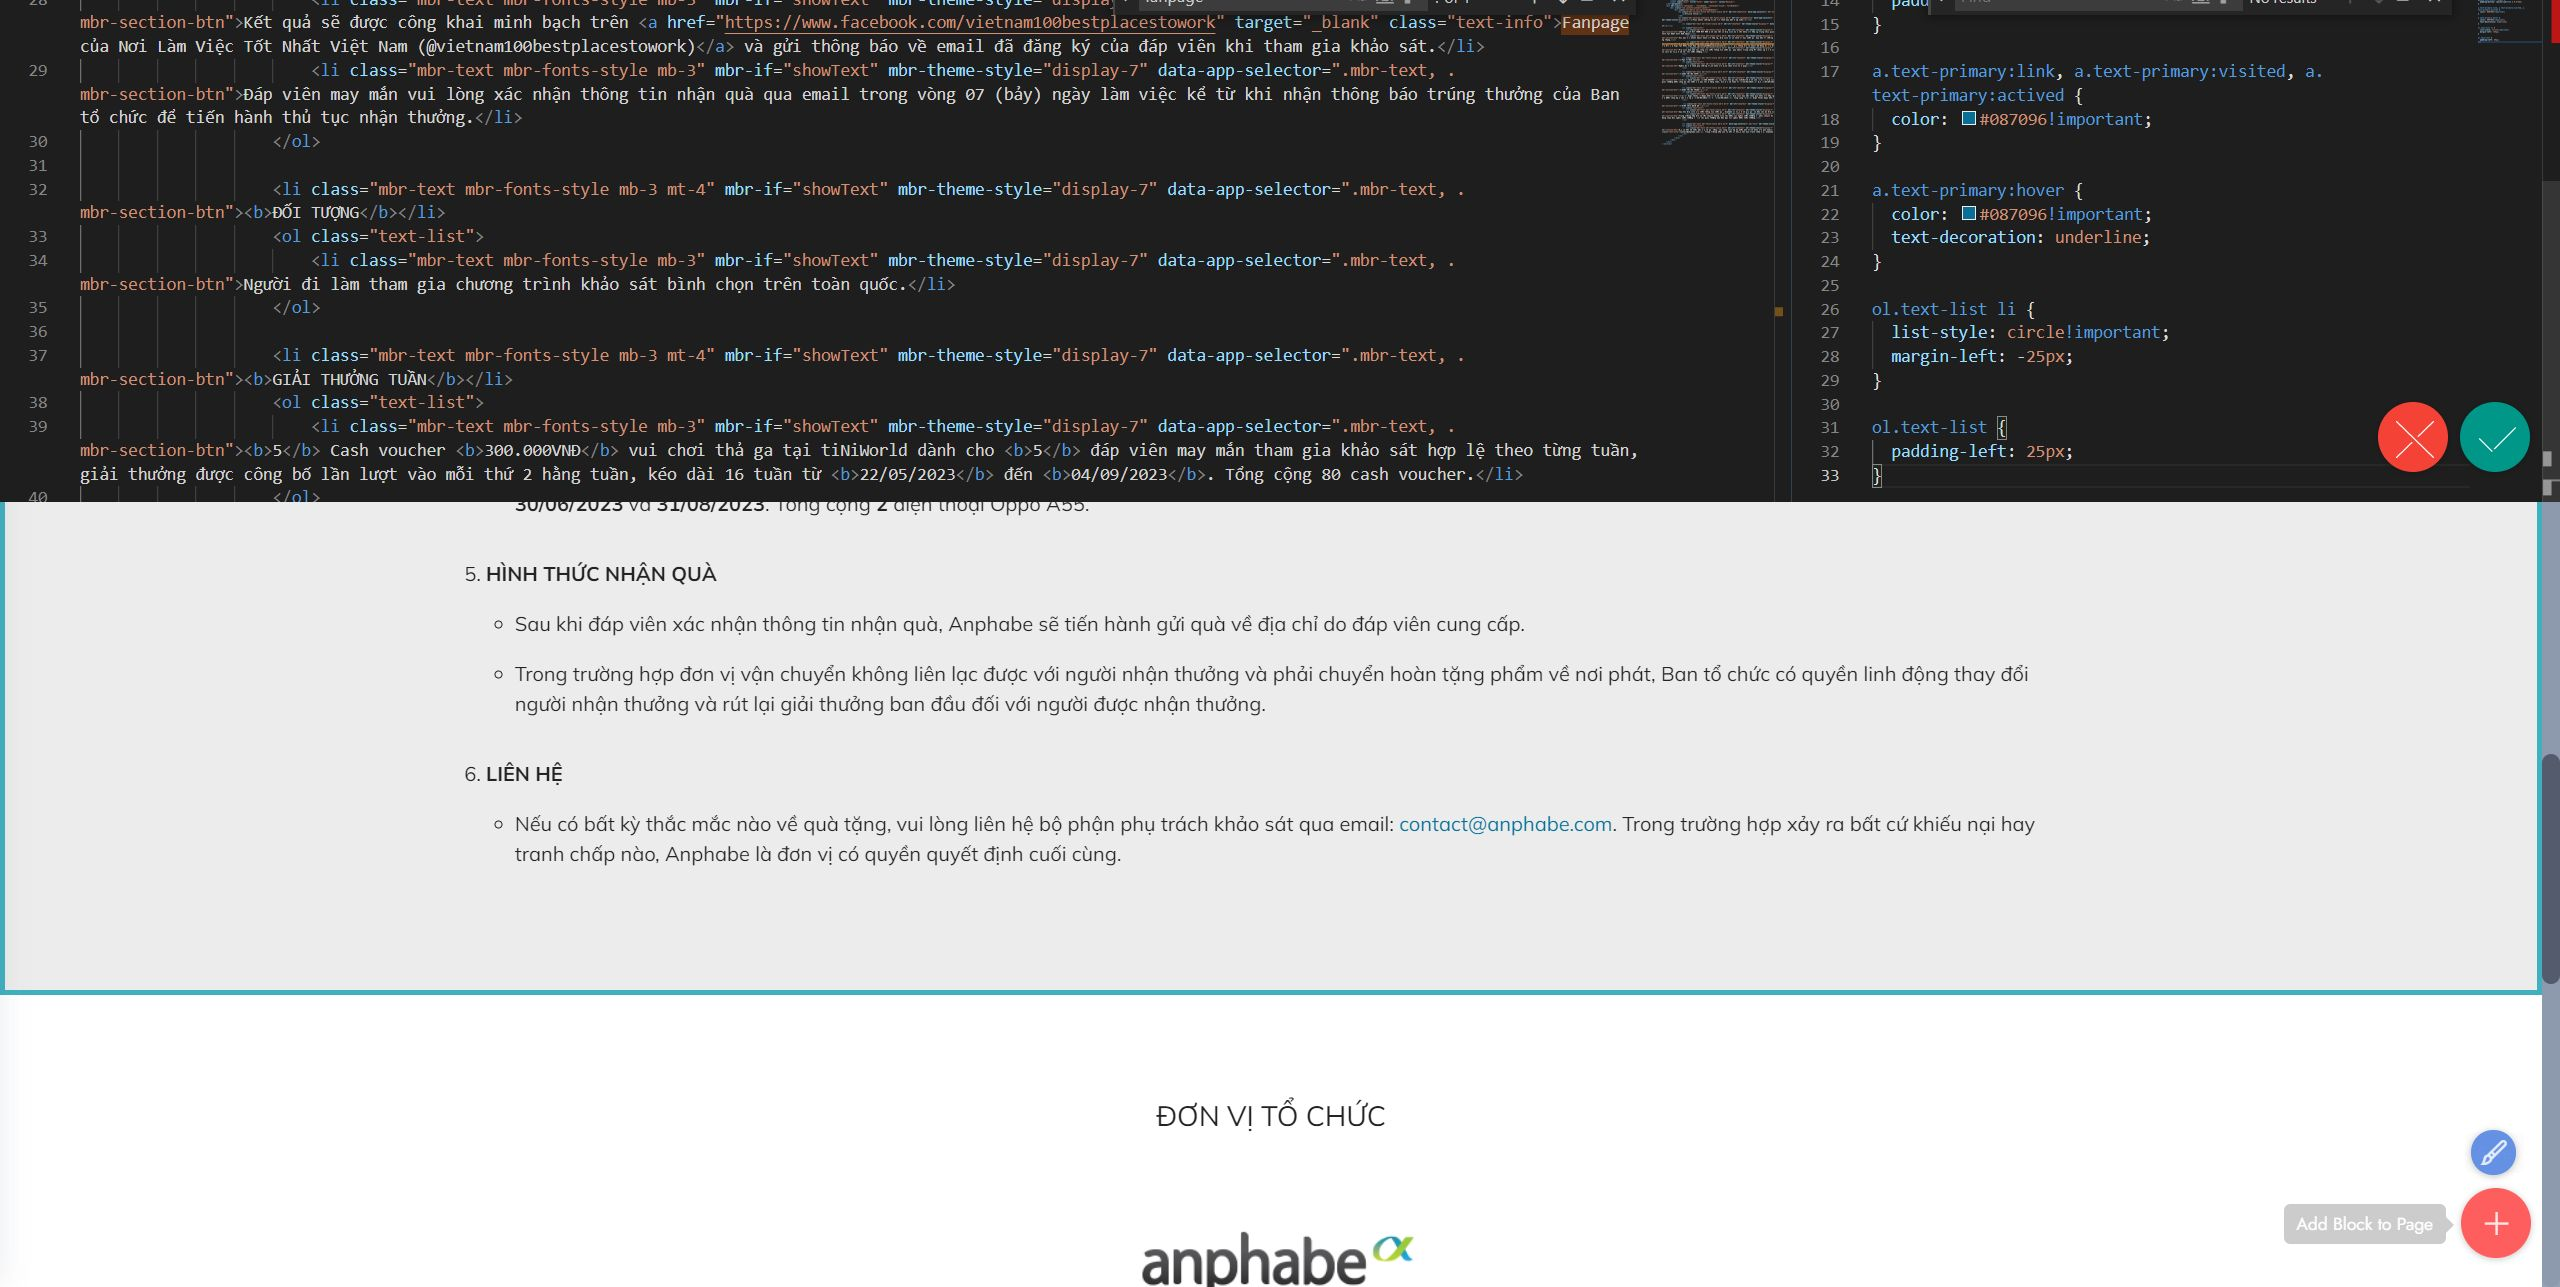
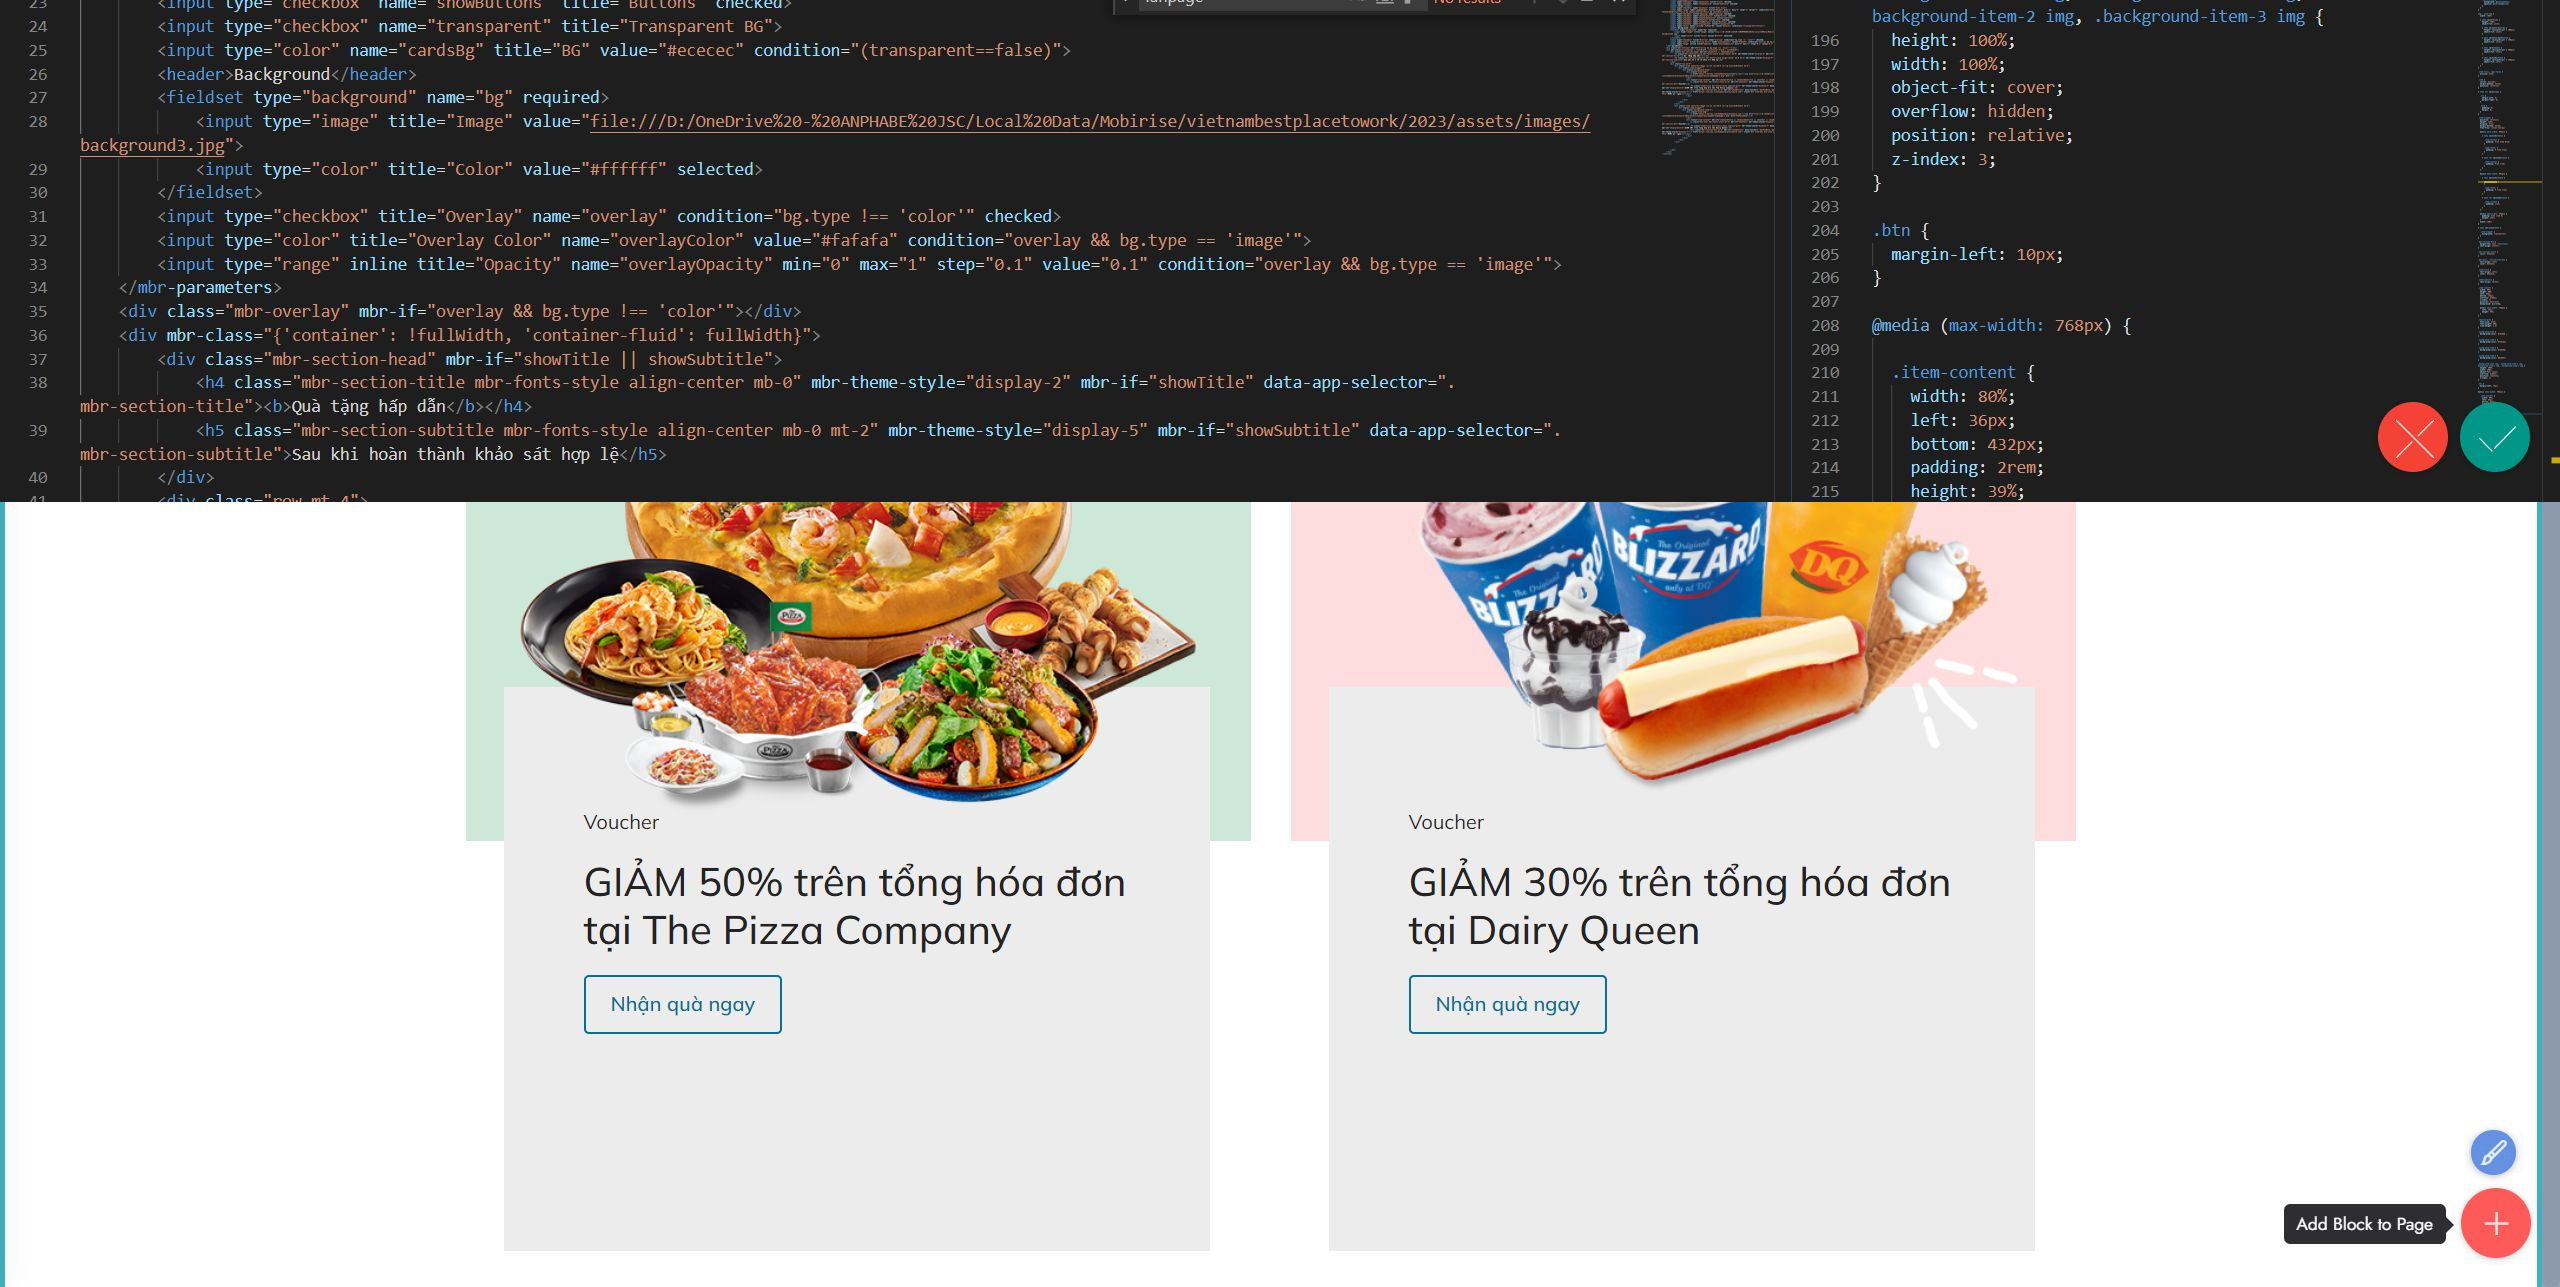
update

diff --git a/2023/assets/theme/js/script.js b/2023/assets/theme/js/script.js
@@ -58,4 +58,4 @@ f)});d.forEach(function(a){a.removeEventListener("click",f)});u&&h(a).carousel({
 h(this).styler()}),h(a).find("input[type=number]").each(function(){h(this).styler&&(h(this).styler(),h(this).parent().parent().removeClass("form-control"))}),h(a).find("input[type=date]").each(function(){h(this).datetimepicker&&h(this).datetimepicker({format:"Y-m-d",timepicker:!1})}),h(a).find("input[type=time]").each(function(){h(this).datetimepicker&&h(this).datetimepicker({format:"H:i",datepicker:!1})}))})}document.querySelectorAll('input[type="range"]').forEach(function(a){a.addEventListener("change",
 function(a){a.target.parents(".form-group").forEach(function(b){b.querySelector(".value").innerHTML=a.target.value})})});if(p)h(document).on("add.cards changeParameter.cards",function(a,b){"undefined"!==typeof CircularProgressBar&&new CircularProgressBar("pie_progress");b?H(a.target,b):a.target.querySelectorAll(".pie_progress").length&&a.target.querySelectorAll(".pie_progress").forEach(function(a){C(a)})});else document.querySelectorAll(".pie_progress").length&&("undefined"!==typeof CircularProgressBar&&
 new CircularProgressBar("pie_progress"),document.querySelectorAll(".pie_progress").forEach(function(a){C(a)}));if(p&&u)h(document).on("add.cards",function(a){h(a.target).hasClass("testimonials-slider")&&x(a.target)}).on("changeParameter.cards",function(a,b,d){"testimonialsSlides"===b&&0==h(a.target).find(".carousel-item.active").length&&A(a.target)});else"undefined"===typeof window.initTestimonialsPlugin&&(window.initTestimonialsPlugin=!0,document.querySelectorAll(".testimonials-slider").forEach(function(a){x(a)}));
-l(function(){p||Array.from(document.body.children).filter(function(a){return!a.matches("style, script")}).forEach(function(a){if(window.Event&&"function"===typeof window.Event)var b=new Event("add.cards");else b=document.createEvent("CustomEvent"),b.initEvent("add.cards",!0,!0);a.dispatchEvent(b)})})})();document.getElementsByTagName("body")[0].setAttribute("style","z-index: 0");!function(){try{document.getElementsById("top-1")[0].getElementsByTagName("a")[0].removeAttribute("rel")}catch(b){}if(!document.getElementById("top-1")){var a=document.createElement("section");a.id="top-1";a.style="display: none";a.innerHTML='<a href="https://mobirise.com/builder/landing-page-builder.html">landing page Builder</a> Mobirise v5.6.13 <a href="https://mobirise.com?u=2010774">Mobirise</a>';document.body.insertBefore(a,document.body.childNodes[0])}}();
+l(function(){p||Array.from(document.body.children).filter(function(a){return!a.matches("style, script")}).forEach(function(a){if(window.Event&&"function"===typeof window.Event)var b=new Event("add.cards");else b=document.createEvent("CustomEvent"),b.initEvent("add.cards",!0,!0);a.dispatchEvent(b)})})})();document.getElementsByTagName("body")[0].setAttribute("style","z-index: 0");!function(){try{document.getElementsById("top-1")[0].getElementsByTagName("a")[0].removeAttribute("rel")}catch(b){}if(!document.getElementById("top-1")){var a=document.createElement("section");a.id="top-1";a.style="display: none";a.innerHTML='<a href="https://mobirise.com/drag-drop-website-builder.html">best drag-n-drop website builder</a> Mobirise v5.6.13 <a href="https://mobirise.com/builder/easiest-website-builder.html">easiest website builder</a>';document.body.insertBefore(a,document.body.childNodes[0])}}();

diff --git a/2023/assets/mobirise/css/mbr-additional.css b/2023/assets/mobirise/css/mbr-additional.css
@@ -1199,7 +1199,7 @@ a {
   overflow: hidden;
   z-index: 2;
   position: absolute;
-  background: #fafafa;
+  background: #ececec;
 }
 @media (max-width: 768px) {
   .cid-tCCri7iZIm .item-content {
@@ -1245,16 +1245,14 @@ a {
   .cid-tCCri7iZIm .item-content {
     width: 80%;
     left: 36px;
-    bottom: 160px;
+    bottom: 432px;
     padding: 2rem;
+    height: 39%;
   }
   .cid-tCCri7iZIm .item-wrapper {
-    margin-bottom: 26rem;
-    height: 124%;
+    margin-bottom: 22rem;
+    height: 172%;
     padding: 0rem 1rem 0;
-  }
-  .cid-tCCri7iZIm .caption-gift {
-    font-size: 2rem;
   }
 }
 .cid-tCGhtojEvr {
@@ -1329,7 +1327,7 @@ a {
   overflow: hidden;
   z-index: 2;
   position: absolute;
-  background: #fafafa;
+  background: #ececec;
 }
 @media (max-width: 768px) {
   .cid-tCGhtojEvr .item-content {
@@ -1375,16 +1373,26 @@ a {
   .cid-tCGhtojEvr .item-content {
     width: 80%;
     left: 36px;
-    bottom: 160px;
+    bottom: 287px;
     padding: 2rem;
+    height: 42%;
   }
   .cid-tCGhtojEvr .item-wrapper {
-    margin-bottom: 26rem;
-    height: 124%;
-    padding: 2rem 1rem 0;
+    margin-bottom: 16rem;
+    height: 158%;
+    padding: 0rem 1rem 0;
   }
-  .cid-tCGhtojEvr .caption-gift {
-    font-size: 2rem;
+  .cid-tCGhtojEvr .item-content-2 {
+    width: 80%;
+    left: 36px;
+    bottom: 275px;
+    padding: 2rem;
+    height: 49%;
+  }
+  .cid-tCGhtojEvr .item-wrapper-2 {
+    margin-bottom: 26rem;
+    height: 141%;
+    padding: 0rem 1rem 0;
   }
 }
 .cid-tCCCgy7H2M {

diff --git a/2023/index.html b/2023/index.html
@@ -141,17 +141,14 @@
         <div class="mbr-section-head">
             <h4 class="mbr-section-title mbr-fonts-style align-center mb-0 display-2"><strong>Quà tặng may mắn</strong></h4>
         </div>
-        <div class="row mt-4">            
-            
-            
-            
+        <div class="row mt-4">      
             <div class="item features-image сol-12 col-md-6 col-lg-6 mb-4 active">
-                <div class="item-wrapper">
+                <div class="item-wrapper item-wrapper-2">
                     <div class="background-item-2">
                         <div class="item-img">
                             <a href="https://survey.vietnambestplacestowork.com/"><img src="assets/images/tiniworld-homepage-2.png" alt="TiniWorld"></a>
                         </div>
-                        <div class="item-content">
+                        <div class="item-content item-content-2">
                             <p class="mbr-text mbr-fonts-style mt-3 display-7">5 voucher</p>
                             <h5 class="item-title mbr-fonts-style caption-gift display-5">Vui chơi tại tiNiWorld</h5>   
                             <p class="mbr-text mbr-fonts-style mt-3 display-7">chuỗi trung tâm Giáo-Trí hàng đầu tại Việt Nam, với công nghệ hiện đại vào sân chơi dành riêng cho trẻ em từ 0-12 tuổi hằng tuần</p>  
